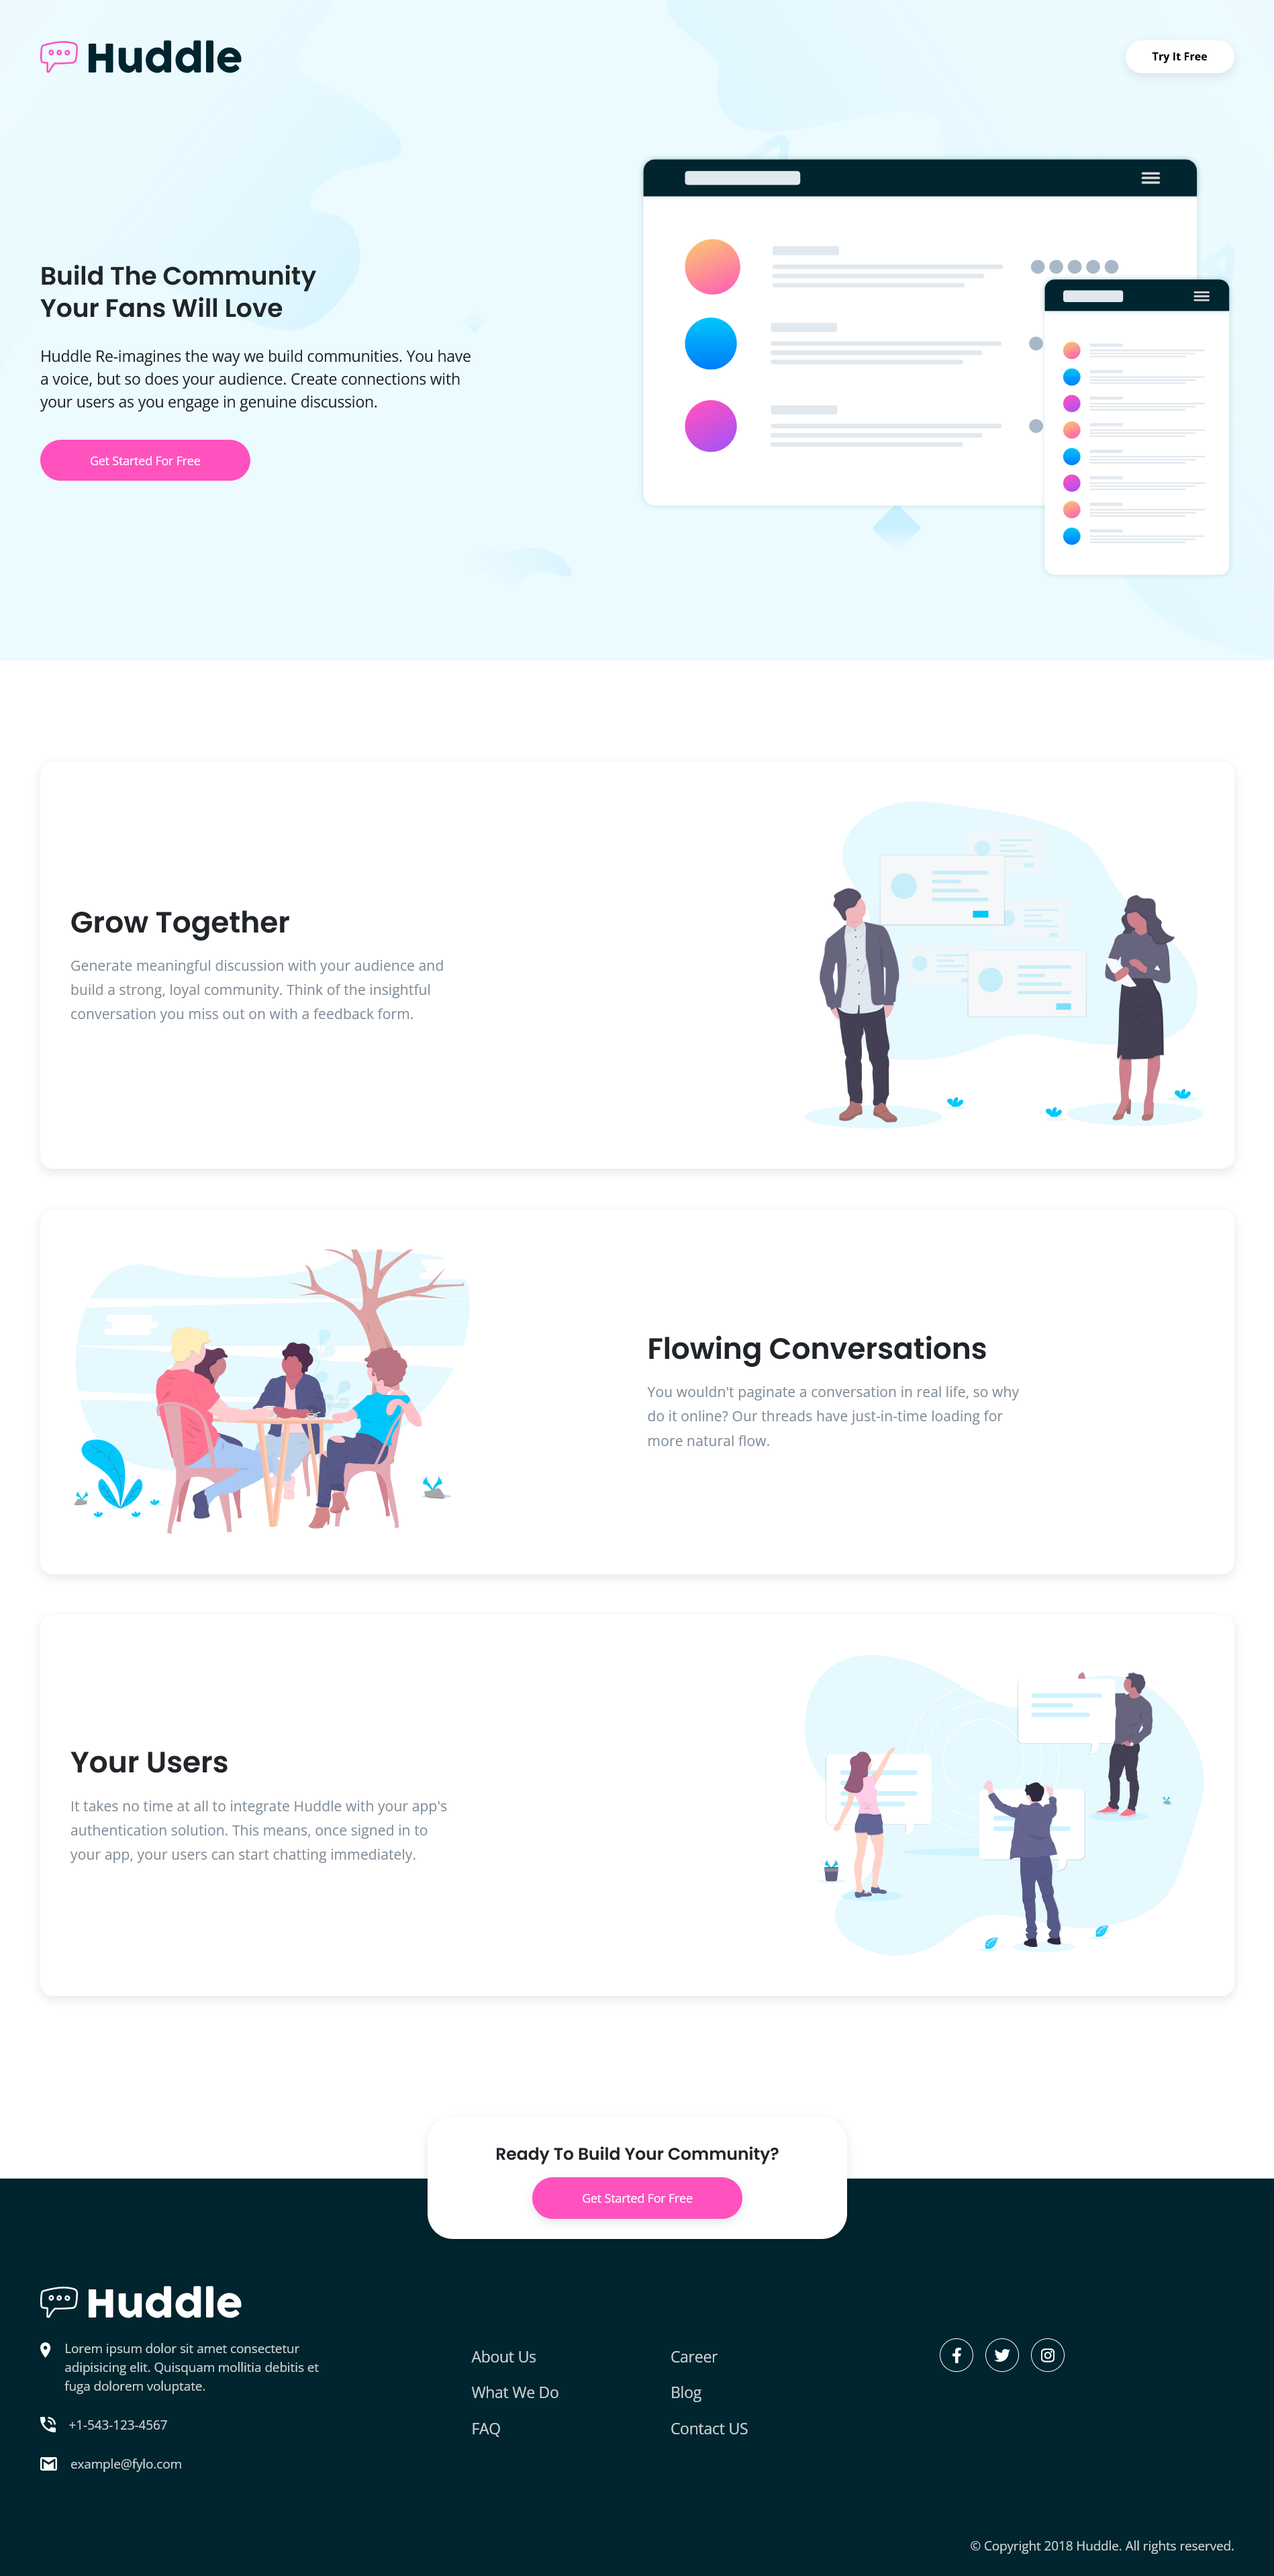
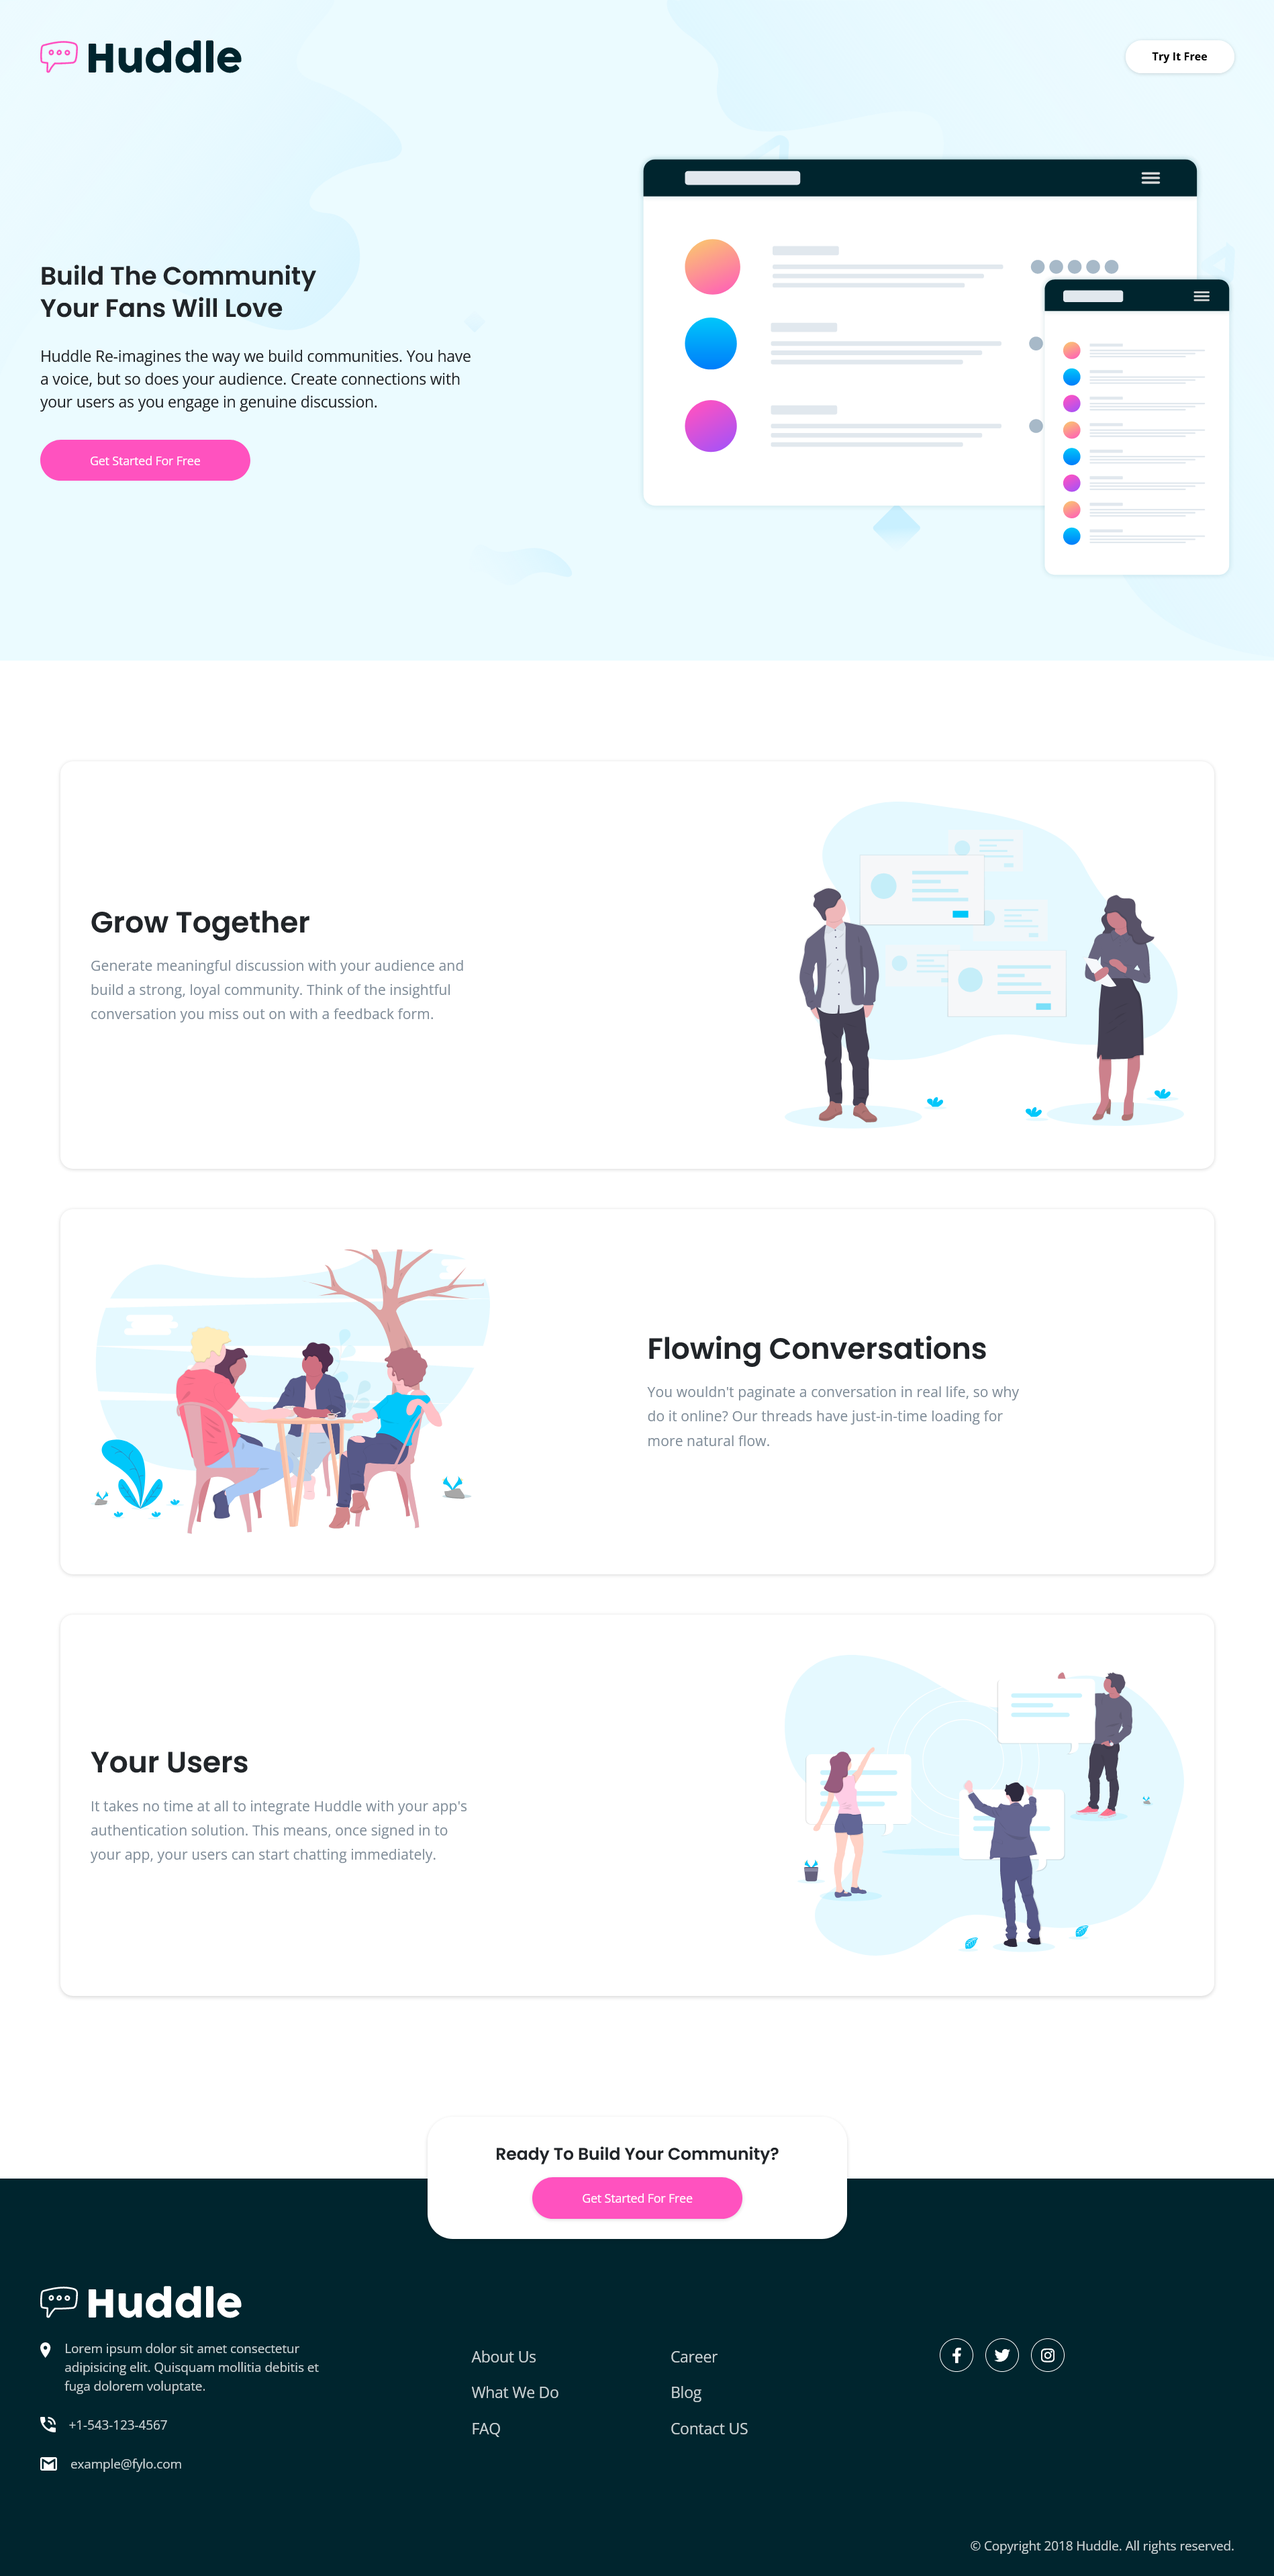
final adjustments

diff --git a/dist/index.html b/dist/index.html
@@ -16,8 +16,8 @@
   <link rel="stylesheet" href="./css/main.css">
   
 </head>
-<body>
 
+<body>
 <main class="main-page">
   <div class="wrapper">
     <header class="page-header row d-flex justify-content-between px-4 px-md-5 py-4 py-md-5 gx-0">
@@ -41,7 +41,7 @@
   </div>
   
     <section class="benefits py-4 px-md-4">
-      <div class="card-item row d-flex flex-column flex-md-row-reverse justify-content-md-between align-items-md-center mx-4 px-4 my-5">
+      <div class="card-item row d-flex flex-column flex-md-row-reverse justify-content-md-between align-items-md-center mx-4 mx-md-5 px-4 my-5">
           <img class="img-fluid py-5 col-12 col-md-6 mx-auto mx-md-0" src="../images/illustration-grow-together.svg" alt="illustration image">
         <div class="card-text col-12 col-md-6">
           <div class="text-wrapper text-center text-md-start">
@@ -50,7 +50,7 @@
         </div>
       </div>
     </div>
-    <div class="card-item row d-flex flex-column flex-md-row justify-content-md-between align-items-md-center mx-4 px-4 my-5">
+    <div class="card-item row d-flex flex-column flex-md-row justify-content-md-between align-items-md-center mx-4 mx-md-5 px-4 my-5">
       <img class="img-fluid py-5 col-12 col-md-6 mx-auto mx-md-0" src="../images/illustration-flowing-conversation.svg" alt="illustration image">
       <div class="card-text col-12 col-md-6">
         <div class="text-wrapper text-center text-md-start">
@@ -59,7 +59,7 @@
         </div>
       </div>
     </div>
-    <div class="card-item row d-flex flex-column flex-md-row-reverse justify-content-md-between align-items-md-center mx-4 px-4 my-5">
+    <div class="card-item row d-flex flex-column flex-md-row-reverse justify-content-md-between align-items-md-center mx-4 mx-md-5 px-4 my-5">
       <img class="img-fluid py-5 col-12 col-md-6 mx-auto mx-md-0" src="../images/illustration-your-users.svg" alt="illustration image">
       <div class="card-text col-12 col-md-6">
         <div class="text-wrapper text-center text-md-start">

diff --git a/dist/css/main.css b/dist/css/main.css
@@ -44,7 +44,9 @@ body {
   min-width: 130px;
   border-radius: 30px;
   padding: 0.4em 0;
-  box-shadow: rgba(0, 0, 0, 0.1) 0px 4px 12px;
+  -webkit-box-shadow: rgba(0, 0, 0, 0.16) 0px 1px 4px;
+  -moz-box-shadow: rgba(0, 0, 0, 0.16) 0px 1px 4px;
+  box-box-shadow: rgba(0, 0, 0, 0.16) 0px 1px 4px;
 }
 .wrapper .page-header .header-sub-btn:hover {
   color: hsl(208deg, 11%, 55%);
@@ -96,7 +98,9 @@ body {
 
 .benefits .card-item {
   border-radius: 15px;
-  box-shadow: rgba(0, 0, 0, 0.1) 0px 4px 12px;
+  -webkit-box-shadow: rgba(0, 0, 0, 0.16) 0px 1px 4px;
+  -moz-box-shadow: rgba(0, 0, 0, 0.16) 0px 1px 4px;
+  box-box-shadow: rgba(0, 0, 0, 0.16) 0px 1px 4px;
 }
 .benefits .card-item h1 {
   font-size: 25px;
@@ -127,7 +131,9 @@ body {
   background-color: white;
   bottom: -6rem;
   border-radius: 30px;
-  box-shadow: rgba(0, 0, 0, 0.1) 0px 4px 12px;
+  -webkit-box-shadow: rgba(0, 0, 0, 0.16) 0px 1px 4px;
+  -moz-box-shadow: rgba(0, 0, 0, 0.16) 0px 1px 4px;
+  box-box-shadow: rgba(0, 0, 0, 0.16) 0px 1px 4px;
 }
 .benefits .footer-subscription button {
   border: none;
@@ -138,7 +144,9 @@ body {
   width: 100%;
   max-width: 250px;
   padding: 0.7em 0;
-  box-shadow: rgba(0, 0, 0, 0.1) 0px 4px 12px;
+  -webkit-box-shadow: rgba(0, 0, 0, 0.16) 0px 1px 4px;
+  -moz-box-shadow: rgba(0, 0, 0, 0.16) 0px 1px 4px;
+  box-box-shadow: rgba(0, 0, 0, 0.16) 0px 1px 4px;
 }
 .benefits .footer-subscription button:hover {
   opacity: 0.8;

diff --git a/scss/mixins.scss b/scss/mixins.scss
@@ -56,7 +56,7 @@
 }
 
 @mixin shadow{
-    -webkit-box-shadow: rgba(0, 0, 0, 0.1) 0px 4px 12px;
-    -moz-box-shadow: rgba(0, 0, 0, 0.1) 0px 4px 12px;
-    box-shadow: rgba(0, 0, 0, 0.1) 0px 4px 12px;
+    -webkit-box-shadow: rgba(0, 0, 0, 0.16) 0px 1px 4px;
+    -moz-box-shadow: rgba(0, 0, 0, 0.16) 0px 1px 4px;
+    box-box-shadow: rgba(0, 0, 0, 0.16) 0px 1px 4px;
 }
